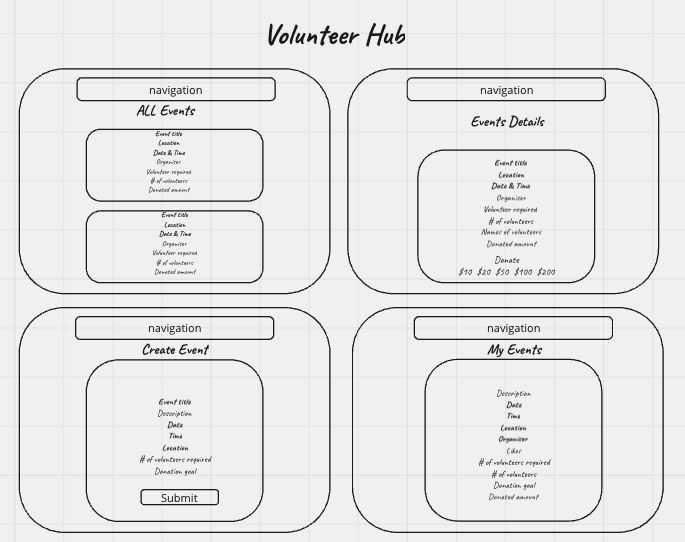
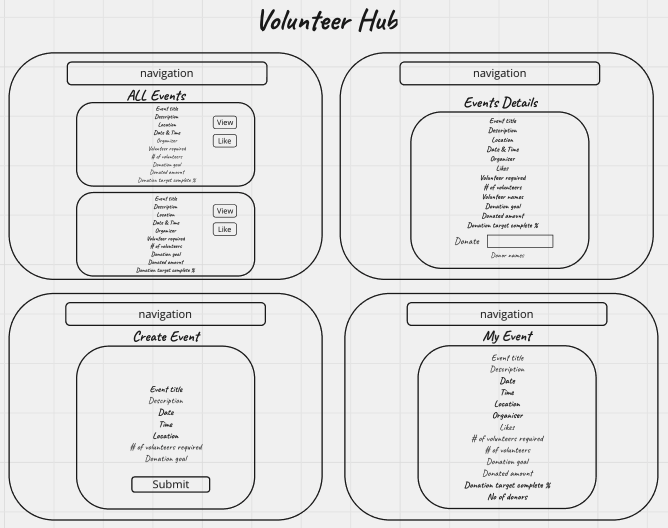
update wireframes, add more userstory, ice box

diff --git a/README.md b/README.md
@@ -8,8 +8,8 @@ A community volunteering event application where users can easily organise volun
 ## App image
 
 ![log-in screen](main_app/static/images/photos-read-me/Login.png)
-![Image of event list]()
-![Image of creating an event]()
+![Image of event list](main_app/static/images/photos-read-me/EventList.png)
+![Image of creating an event](main_app/static/images/photos-read-me/CreateEvent.png)
 
 ## Wireframe
 ![Wireframes](main_app/static/images/photos-read-me/Wireframes.png)
@@ -45,6 +45,7 @@ As a user,
 - I want to be able to see donation goal and amount raised for each event.
 - I want to be able to set a donation goal for my event when creating an event.
 - I want to be able to see the percentage completed for my donation goal.
+- I want to not add/update volunteering events to a past date.
 
 ## Ice box
 
@@ -56,6 +57,7 @@ As a user,
 - I want to be able to provide comments on events.
 - I want to see a map of the event location.
 - I want to post photos from the volunteer events I attended.
+- I want to be able to pay with Stripe or PayPal for donations.
 
 ## Team roles
 
